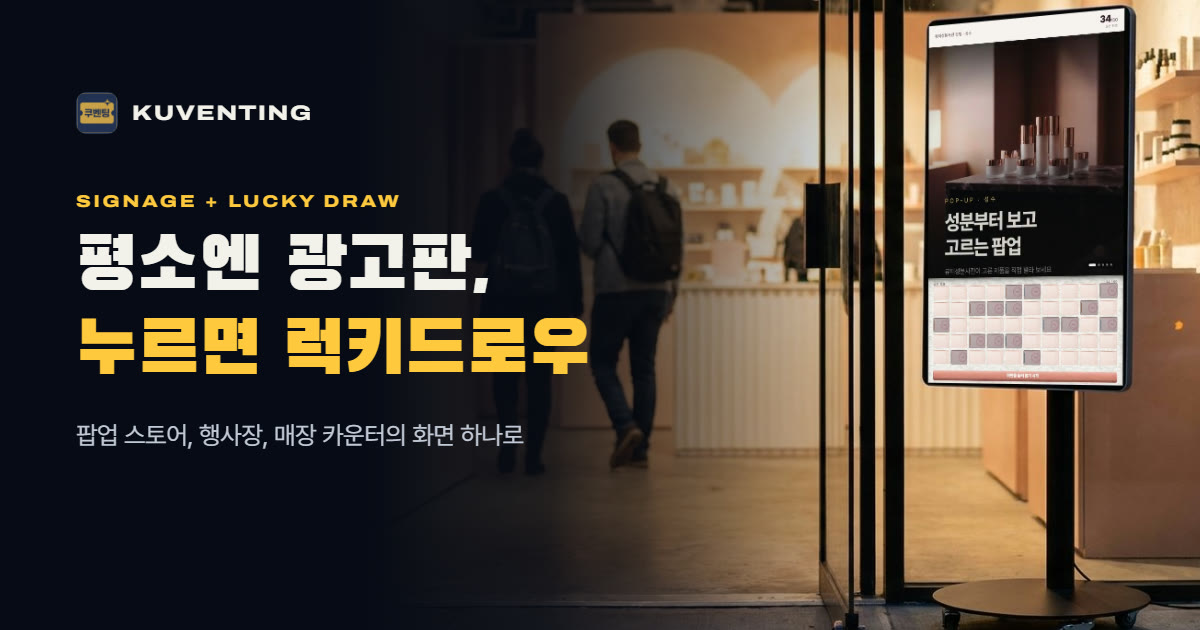
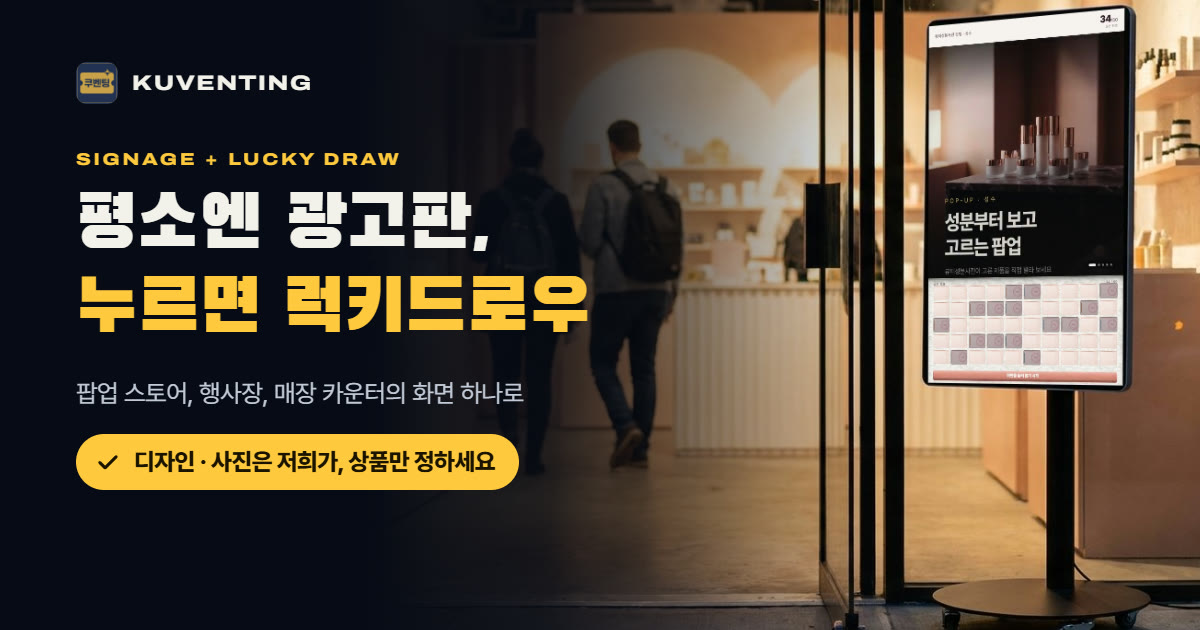
feat(site): 미리보기 그림 새 문구 · 도입 문의 메일 알림(환경 변수 켜면)
- og.jpg: 「디자인 · 사진은 저희가, 상품만 정하세요」 노란 알약 추가, 주소에 ?v=2(옛 그림 캐시 피하기)
- 설명(description · og:description)에도 디자인 · 사진 제작 문구
- 도입 문의가 표에 쌓인 뒤 after() 로 메일 한 통(lib/notify.ts, Resend API).
  RESEND_API_KEY · INQUIRY_TO 가 있을 때만 — 저장소가 공개라 주소 · 키는 Vercel 환경 변수에만 둔다

Changed region(s): [[0.0617, 0.3016, 0.4933, 0.7841], [0.0617, 0.0905, 0.2775, 0.2111], [0.0617, 0.2413, 0.3392, 0.2714]]

diff --git a/app/lib/notify.ts b/app/lib/notify.ts
@@ -1,0 +1,42 @@
+/**
+ * 도입 문의 알림 메일 — 문의가 표(kuji.inquiries)에 쌓인 뒤 사장님 메일로 한 통 보낸다. Resend(resend.com) API 를 fetch 로 부른다.
+ *
+ * 환경 변수(Vercel 에 사장님이 넣는다 — 저장소가 공개라 주소 · 키를 코드에 적지 않는다)
+ *   RESEND_API_KEY  Resend 키. 없으면 메일 없이 넘어간다(문의는 이미 표에 있다)
+ *   INQUIRY_TO      받을 메일 주소
+ *   INQUIRY_FROM    보내는 주소. 없으면 Resend 기본 주소 — 도메인 인증 전에는 이 주소로 **Resend 가입 메일에게만** 보낼 수 있다
+ *                   (그래서 Resend 는 받을 메일 주소로 가입한다)
+ * 메일이 실패해도 손님 화면에는 알리지 않는다 — 문의는 받았고, 사장님은 표에서 다시 볼 수 있다.
+ */
+export type InquiryMail = { name: string; kind: string; contact: string; message: string | null };
+
+export async function notifyInquiry(q: InquiryMail): Promise<boolean> {
+  const key = process.env.RESEND_API_KEY;
+  const to = process.env.INQUIRY_TO;
+  if (!key || !to) return false;
+  const from = process.env.INQUIRY_FROM || '쿠벤팅 문의 <onboarding@resend.dev>';
+  const when = new Date().toLocaleString('ko-KR', { timeZone: 'Asia/Seoul' });
+  const text = [
+    `업종: ${q.kind}`,
+    `이름 · 상호: ${q.name}`,
+    `연락처: ${q.contact}`,
+    '',
+    q.message ? `내용:\n${q.message}` : '내용: (없음)',
+    '',
+    `받은 시각: ${when}`,
+    '홈페이지(kuventing.scpadlab.com) 도입 문의 폼에서 왔습니다. 모든 문의는 Supabase kuji.inquiries 표에도 남아 있습니다.',
+  ].join('\n');
+  try {
+    const r = await fetch('https://api.resend.com/emails', {
+      method: 'POST',
+      headers: { Authorization: `Bearer ${key}`, 'Content-Type': 'application/json' },
+      body: JSON.stringify({ from, to: [to], subject: `[쿠벤팅 도입 문의] ${q.kind} · ${q.name}`, text }),
+      signal: AbortSignal.timeout(8000),
+    });
+    if (!r.ok) console.error('inquiry mail', r.status, (await r.text().catch(() => '')).slice(0, 200));
+    return r.ok;
+  } catch (e) {
+    console.error('inquiry mail', (e as Error).message);
+    return false;
+  }
+}

diff --git a/app/app/site/page.tsx b/app/app/site/page.tsx
@@ -37,11 +37,12 @@ export const metadata: Metadata = {
   metadataBase: new URL(SITE_URL),
   alternates: { canonical: '/' },
   title: '쿠벤팅 | 평소엔 광고판, 누르면 럭키드로우',
-  description: '팝업 스토어, 행사장, 매장 카운터의 화면 하나로 움직이는 광고와 경품 이벤트를 함께 돌립니다.',
+  description: '팝업 스토어, 행사장, 매장 카운터의 화면 하나로 움직이는 광고와 경품 이벤트를 함께 돌립니다. 디자인과 사진은 저희가 만들고, 상품만 정하시면 됩니다.',
   openGraph: {
     title: '쿠벤팅 | 평소엔 광고판, 누르면 럭키드로우',
-    description: '팝업 스토어, 행사장, 매장 카운터의 화면 하나로 움직이는 광고와 경품 이벤트를 함께.',
-    images: ['/site/og.jpg'],
+    description: '화면 하나로 움직이는 광고와 경품 이벤트를 함께. 디자인 · 사진은 저희가, 상품만 정하세요.',
+    // 그림을 바꾸면 v 를 올린다 — 같은 주소면 메신저 · SNS 가 옛 그림을 계속 보여 준다(카톡은 공유 디버거에서 캐시도 지워야 한다)
+    images: ['/site/og.jpg?v=2'],
     url: '/',
     siteName: '쿠벤팅',
     type: 'website',

diff --git a/app/app/api/inquiry/route.ts b/app/app/api/inquiry/route.ts
@@ -1,9 +1,12 @@
+import { after } from 'next/server';
 import { getAdmin } from '@/lib/admin';
 import { INQUIRY_KINDS, INQUIRY_MAX } from '@/lib/inquiry';
+import { notifyInquiry } from '@/lib/notify';
 
 /**
  * 홈페이지 도입 문의 받기 — kuji.inquiries 에 한 줄 쌓는다(supabase/027_inquiries.sql, 서버 service_role 만 쓴다).
  * 이름 · 연락처 · 개인정보 동의는 필수. 숨긴 칸(website)을 채운 요청은 봇이라 받은 척만 한다.
+ * 쌓은 뒤 사장님 메일로 알림(lib/notify.ts, 환경 변수가 있을 때만) — 응답을 보낸 다음에 보내서 손님을 기다리게 하지 않는다.
  */
 const text = (v: unknown, max: number) => (typeof v === 'string' ? v.trim().slice(0, max) : '');
 
@@ -34,5 +37,6 @@ export async function POST(req: Request) {
     referer: (req.headers.get('referer') ?? '').slice(0, 200) || null,
   });
   if (error) return Response.json({ message: '보내지 못했습니다. 잠시 후 다시 시도해 주세요.' }, { status: 500 });
+  after(() => notifyInquiry({ name, kind, contact, message: message || null }));
   return Response.json({ ok: true });
 }
